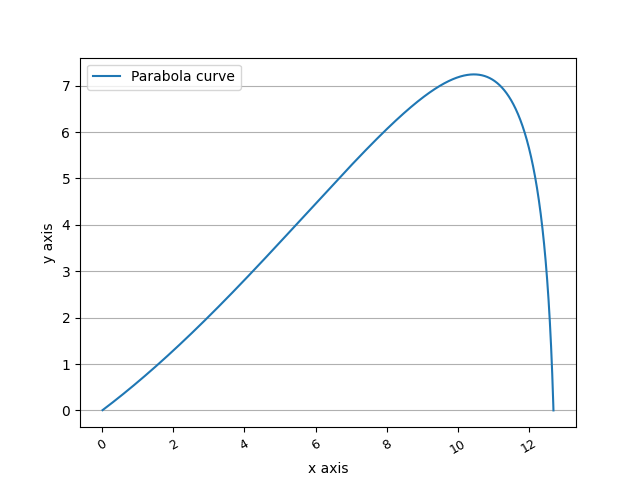
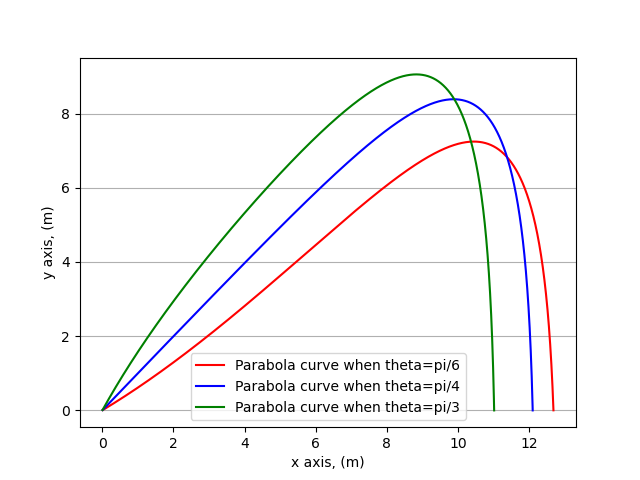
update Exp3.Exercise5.4 draw figure

diff --git a/Exp3/Exercise5.4/Exercise5.4-Q3/main.py b/Exp3/Exercise5.4/Exercise5.4-Q3/main.py
@@ -1,39 +1,43 @@
 # !
+from matplotlib import colors
 import numpy as np
 import matplotlib.pyplot as plt
 
-theta=np.pi/6
-eps=0.000000001
+def calCurve(theta=np.pi/6, v0=100, k=0.3):
+    eps=0.000000001
 
-t_interval = 0.0001
-p=np.array([0, 0], dtype=np.float32)
-v0=100
-v=np.array([v0*np.cos(theta), v0*np.sin(theta)], dtype=np.float32)
-m=1
-k=0.3
-f=-k*v**2
-print(f)
-g=np.array([0, -9.8], dtype=np.float32)
-
-fig=plt.figure()
-xs, ys=[], []
-
-while p[1]>=-eps:
-    # print(f, g)
-    a=f+g
-    v=v+a*t_interval
-    p=p+v*t_interval
-    xs.append(p[0])
-    ys.append(p[1])
-   
-    print(p[0], p[1])
+    t_interval = 0.0001
+    p=np.array([0, 0], dtype=np.float32)
+    v=np.array([v0*np.cos(theta), v0*np.sin(theta)], dtype=np.float32)
+    m=1
     f=-k*v**2
-plt.plot(xs, ys)
-plt.grid(axis="y")
-plt.legend(['Parabola curve'])
-plt.xlabel('x axis')
-plt.ylabel('y axis')
-plt.xticks(size = 9,rotation = 30)  # x轴标签旋转
-plt.savefig('Parabola curve.png')
-plt.show()
+    g=np.array([0, -9.8], dtype=np.float32)
 
+    fig=plt.figure()
+    xs, ys=[], []
+
+    while p[1]>=-eps:
+        # print(f, g)
+        a=f+g
+        v=v+a*t_interval
+        p=p+v*t_interval
+        xs.append(p[0])
+        ys.append(p[1])
+    
+        # print(p[0], p[1])
+        f=-k*v**2
+    return xs, ys
+
+if __name__=="__main__":
+    fig, ax = plt.subplots()
+    xs1, ys1=calCurve(theta=np.pi/6)
+    xs2, ys2=calCurve(theta=np.pi/4)
+    xs3, ys3=calCurve(theta=np.pi/3)
+    ax.plot(xs1, ys1, label='Parabola curve when theta=pi/6', color = 'r')
+    ax.plot(xs2, ys2, label='Parabola curve when theta=pi/4', color = 'b')
+    ax.plot(xs3, ys3, label='Parabola curve when theta=pi/3', color = 'g')
+    ax.grid(axis="y")
+    ax.legend(['Parabola curve when theta=pi/6', 'Parabola curve when theta=pi/4', 'Parabola curve when theta=pi/3'])
+    ax.set_xlabel('x axis, (m)')
+    ax.set_ylabel('y axis, (m)')
+    fig.savefig('Parabola curve.png')
